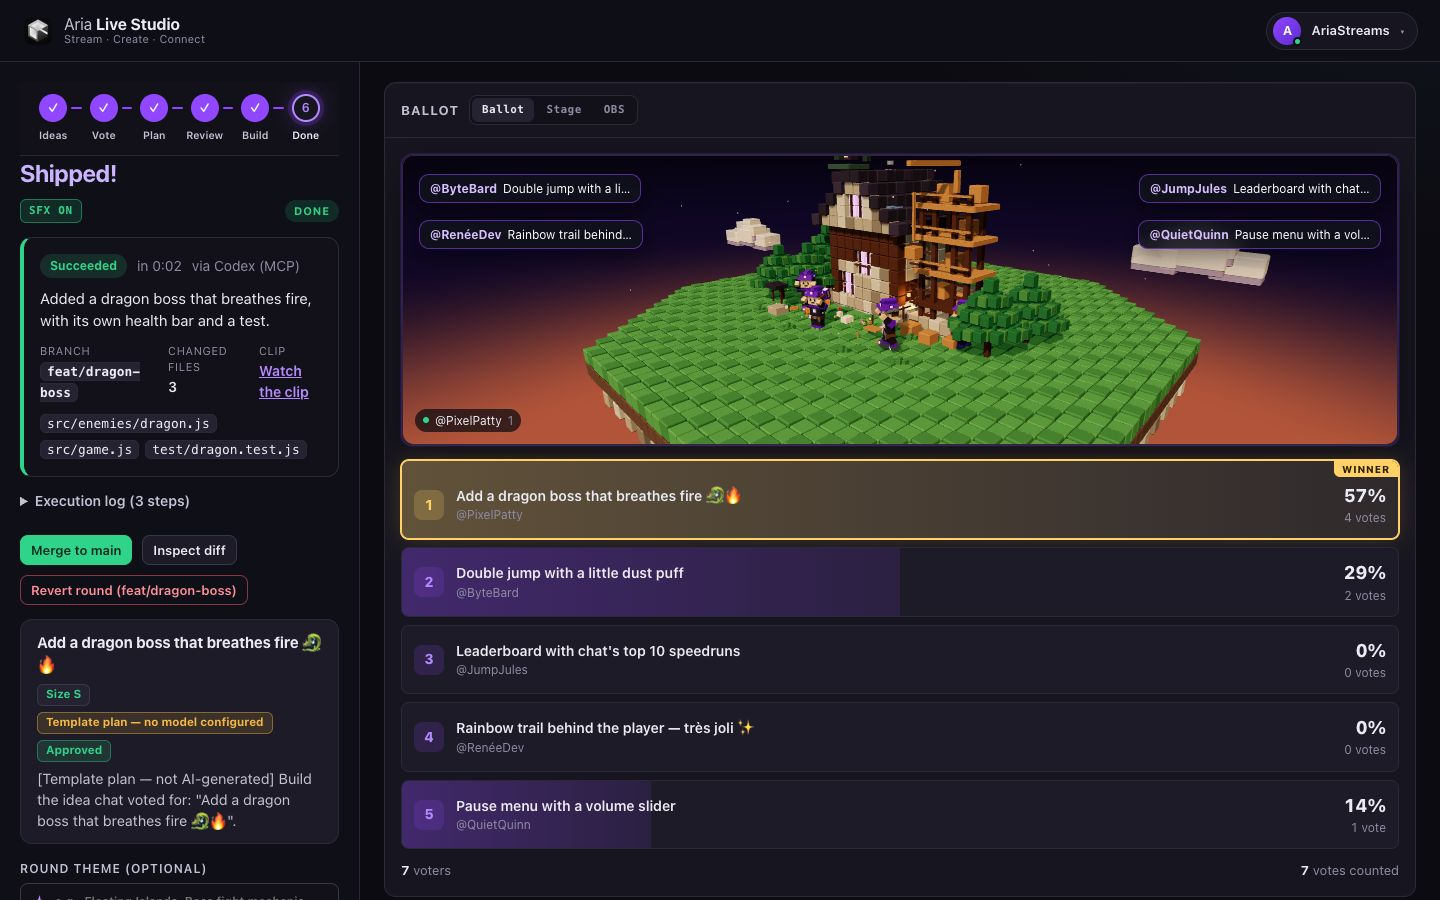
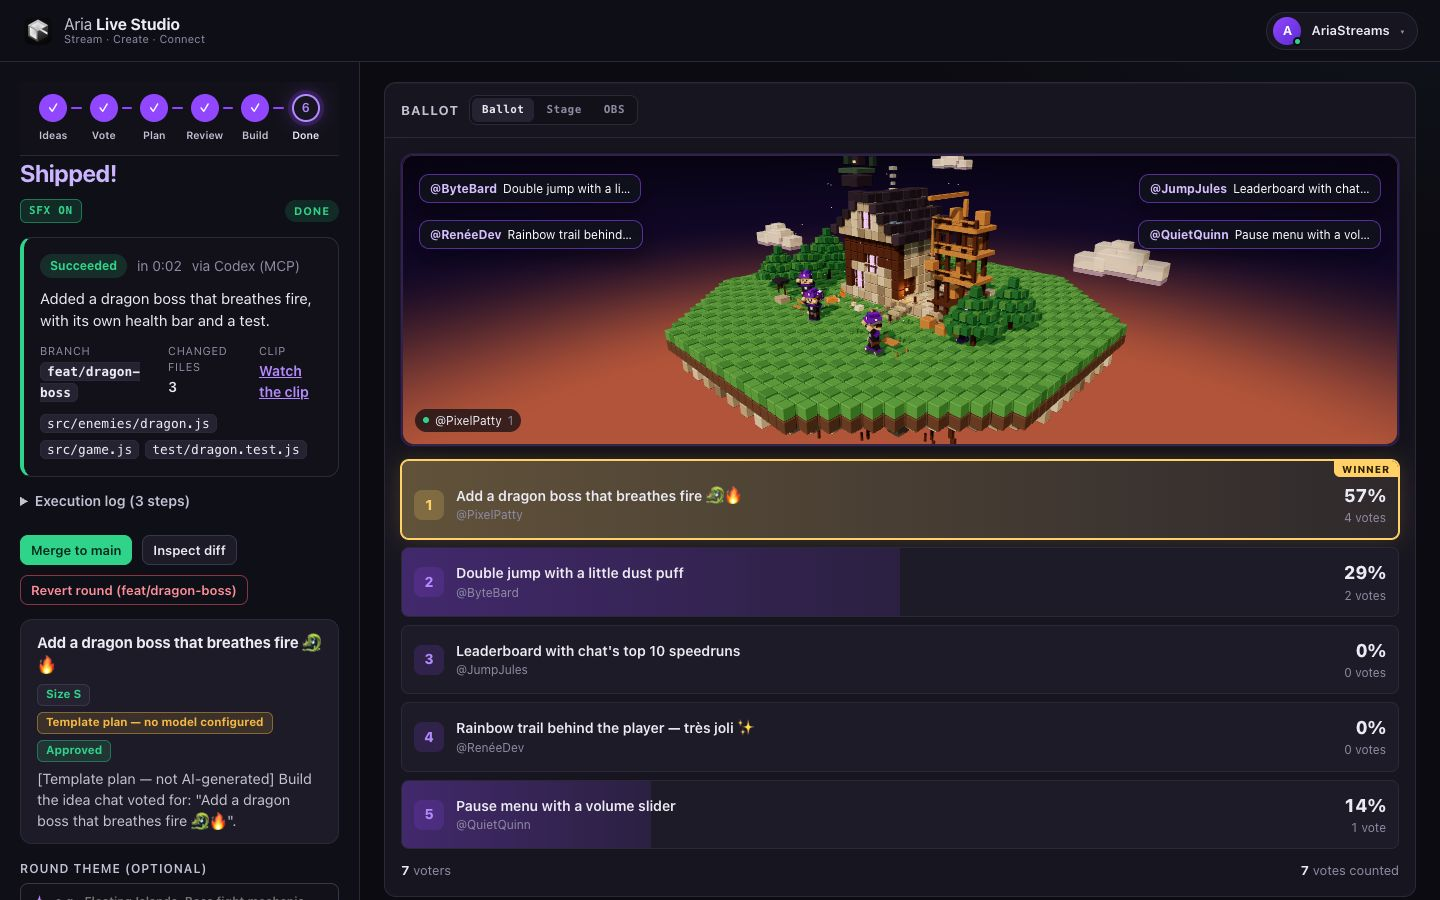
feat(web): declutter 3D island layout, widen staircase with stone cheek-walls, and shift scaffolding right

Changed region(s): [[0.4062, 0.1556, 0.9062, 0.4978]]

diff --git a/packages/web/src/dashboard/LiveStageCanvas.tsx b/packages/web/src/dashboard/LiveStageCanvas.tsx
@@ -368,20 +368,24 @@ export function LiveStageCanvas({
       mossSpecs.push({ x: vx, y: -0.95, z: vz, sx: 0.55, sy: 1.1, sz: 0.55 });
     }
 
-    // Refined stone porch landing + 5-step L-shaped stair + twin timber handrails
+    // Wide, solid stone porch landing + 5-step straight staircase with stepped stone cheek-walls & posts
+    pushStone(1.55, 0.68, 0.25, 1.85, 0.42, 1.45);
+    pushStone(1.55, 0.34, 0.25, 1.85, 0.42, 1.45);
     for (let s = 0; s < 5; s++) {
-      pushStone(1.42, 0.06 + s * 0.14, 2.38 - s * 0.26, 1.24, 0.42, 0.68);
+      const sy = 0.56 - s * 0.12;
+      const sz = 0.92 + s * 0.44;
+      pushStone(1.55, sy, sz, 1.55, 0.36, 0.54);
+      // Stepped stone cheek-walls flanking each tread
+      stoneDarkSpecs.push(
+        { x: 1.02, y: sy + 0.14, z: sz, sx: 0.36, sy: 0.42, sz: 0.56 },
+        { x: 2.08, y: sy + 0.14, z: sz, sx: 0.36, sy: 0.42, sz: 0.56 },
+      );
     }
-    pushStone(1.42, 0.76, 0.92, 1.48, 0.42, 1.25);
-    pushStone(1.12, 0.76, 0.28, 1.15, 0.42, 1.25);
     timberSpecs.push(
-      { x: 1.88, y: 0.48, z: 2.38, sx: 0.12, sy: 0.85, sz: 0.12 },
-      { x: 1.88, y: 0.88, z: 1.62, sx: 0.12, sy: 1.05, sz: 0.12 },
-      { x: 1.88, y: 1.18, z: 0.88, sx: 0.12, sy: 1.0, sz: 0.12 },
-      { x: 1.88, y: 1.05, z: 1.62, sx: 0.1, sy: 0.1, sz: 1.75 },
-      { x: 1.04, y: 0.62, z: 2.38, sx: 0.1, sy: 0.75, sz: 0.1 },
-      { x: 1.04, y: 1.08, z: 0.88, sx: 0.1, sy: 0.9, sz: 0.1 },
-      { x: 1.04, y: 1.08, z: 1.62, sx: 0.09, sy: 0.09, sz: 1.75 },
+      { x: 1.02, y: 0.95, z: 0.92, sx: 0.22, sy: 0.65, sz: 0.22 },
+      { x: 2.08, y: 0.95, z: 0.92, sx: 0.22, sy: 0.65, sz: 0.22 },
+      { x: 1.02, y: 0.48, z: 2.68, sx: 0.22, sy: 0.65, sz: 0.22 },
+      { x: 2.08, y: 0.48, z: 2.68, sx: 0.22, sy: 0.65, sz: 0.22 },
     );
 
     // 3. Main Two-Story Gabled Manor Hall (fine 0.5u stone masonry, dark wood door, arched purple windows)
@@ -479,63 +483,63 @@ export function LiveStageCanvas({
         timberSpecs.push({ x, y: 0.35 + r * 0.46, z, sx: 1.55, sy: 0.18, sz: 0.2 });
       }
     };
-    ladder(2.55, 1.05);
-    ladder(3.95, 1.05);
+    ladder(3.8, 1.05);
+    ladder(5.2, 1.05);
     timberSpecs.push(
-      { x: 2.55, y: 2.55, z: -0.15, sx: 0.42, sy: 11.2, sz: 0.42 },
-      { x: 3.95, y: 2.55, z: -0.15, sx: 0.42, sy: 11.2, sz: 0.42 },
-      { x: 3.25, y: 1.25, z: 0.45, sx: 5.4, sy: 0.38, sz: 3.6 },
+      { x: 3.8, y: 2.55, z: -0.15, sx: 0.42, sy: 11.2, sz: 0.42 },
+      { x: 5.2, y: 2.55, z: -0.15, sx: 0.42, sy: 11.2, sz: 0.42 },
+      { x: 4.5, y: 1.25, z: 0.45, sx: 4.8, sy: 0.38, sz: 3.6 },
     );
     // Multi-tier right scaffolding platforms, cross-rails, barrels, crane arm & pulley block
     scaffSpecs.push(
-      { x: 3.25, y: 2.45, z: 0.45, sx: 5.4, sy: 0.38, sz: 3.6 },
-      { x: 3.25, y: 3.65, z: 0.45, sx: 5.4, sy: 0.38, sz: 3.6 },
-      { x: 3.25, y: 4.75, z: 0.45, sx: 5.4, sy: 0.42, sz: 3.6 },
-      // Safety guardrails & ladder rungs on front face
-      { x: 3.25, y: 5.15, z: 1.35, sx: 5.2, sy: 0.16, sz: 0.16 },
-      { x: 3.25, y: 4.05, z: 1.35, sx: 5.2, sy: 0.16, sz: 0.16 },
-      { x: 3.25, y: 2.85, z: 1.35, sx: 5.2, sy: 0.16, sz: 0.16 },
+      { x: 4.5, y: 2.45, z: 0.45, sx: 4.8, sy: 0.38, sz: 3.6 },
+      { x: 4.5, y: 3.65, z: 0.45, sx: 4.8, sy: 0.38, sz: 3.6 },
+      { x: 4.5, y: 4.75, z: 0.45, sx: 4.8, sy: 0.42, sz: 3.6 },
+      // Safety guardrails on front face
+      { x: 4.5, y: 5.15, z: 1.35, sx: 4.6, sy: 0.16, sz: 0.16 },
+      { x: 4.5, y: 4.05, z: 1.35, sx: 4.6, sy: 0.16, sz: 0.16 },
+      { x: 4.5, y: 2.85, z: 1.35, sx: 4.6, sy: 0.16, sz: 0.16 },
       // Barrels & supply crates on scaffolding platforms
-      { x: 2.7, y: 1.62, z: 0.35, sx: 1.15, sy: 1.15, sz: 1.15 },
-      { x: 3.75, y: 1.58, z: 0.7, sx: 1.05, sy: 1.05, sz: 1.05 },
-      { x: 3.15, y: 2.82, z: 0.25, sx: 1.15, sy: 1.15, sz: 1.15 },
-      { x: 3.7, y: 4.05, z: 0.3, sx: 1.1, sy: 1.1, sz: 1.1 },
-      { x: 2.65, y: 5.15, z: 0.2, sx: 1.15, sy: 1.35, sz: 1.15 },
-      { x: 3.9, y: 5.15, z: 0.1, sx: 1.05, sy: 1.25, sz: 1.05 },
+      { x: 3.95, y: 1.62, z: 0.35, sx: 1.15, sy: 1.15, sz: 1.15 },
+      { x: 5.0, y: 1.58, z: 0.7, sx: 1.05, sy: 1.05, sz: 1.05 },
+      { x: 4.4, y: 2.82, z: 0.25, sx: 1.15, sy: 1.15, sz: 1.15 },
+      { x: 4.95, y: 4.05, z: 0.3, sx: 1.1, sy: 1.1, sz: 1.1 },
+      { x: 3.9, y: 5.15, z: 0.2, sx: 1.15, sy: 1.35, sz: 1.15 },
+      { x: 5.15, y: 5.15, z: 0.1, sx: 1.05, sy: 1.25, sz: 1.05 },
       // Crane boom + suspended pulley hook
-      { x: 3.25, y: 5.55, z: 0.45, sx: 0.38, sy: 1.6, sz: 0.38 },
-      { x: 3.25, y: 6.15, z: 1.65, sx: 0.38, sy: 0.38, sz: 5.4 },
-      { x: 3.25, y: 4.55, z: 2.65, sx: 0.18, sy: 3.2, sz: 0.18 },
-      { x: 3.25, y: 3.45, z: 2.65, sx: 0.92, sy: 0.82, sz: 0.92 },
+      { x: 4.5, y: 5.55, z: 0.45, sx: 0.38, sy: 1.6, sz: 0.38 },
+      { x: 4.5, y: 6.15, z: 1.65, sx: 0.38, sy: 0.38, sz: 5.4 },
+      { x: 4.5, y: 4.55, z: 2.65, sx: 0.18, sy: 3.2, sz: 0.18 },
+      { x: 4.5, y: 3.45, z: 2.65, sx: 0.92, sy: 0.82, sz: 0.92 },
       // Ground-level barrels & crates beside the scaffolding
-      { x: 2.45, y: 0.38, z: 1.85, sx: 1.2, sy: 1.25, sz: 1.2 },
-      { x: 3.35, y: 0.34, z: 1.95, sx: 1.1, sy: 1.15, sz: 1.1 },
-      { x: 4.15, y: 0.3, z: 1.7, sx: 1.05, sy: 1.0, sz: 1.05 },
+      { x: 3.7, y: 0.38, z: 1.85, sx: 1.2, sy: 1.25, sz: 1.2 },
+      { x: 4.6, y: 0.34, z: 1.95, sx: 1.1, sy: 1.15, sz: 1.1 },
+      { x: 5.4, y: 0.3, z: 1.7, sx: 1.05, sy: 1.0, sz: 1.05 },
     );
     for (let r = 0; r < 6; r++) {
-      timberSpecs.push({ x: 2.15, y: 0.55 + r * 0.72, z: 1.35, sx: 0.85, sy: 0.14, sz: 0.14 });
+      timberSpecs.push({ x: 3.4, y: 0.55 + r * 0.72, z: 1.35, sx: 0.85, sy: 0.14, sz: 0.14 });
     }
 
-    // 7. Fine-Detail Clustered Sub-Voxel Pine Trees, Shrubs, Cobblestones & Flowers
+    // 7. Spacious Pine Groves, Workbench, Wishing Well, Plaza Cobblestones & Shrubs
     const trunkSpecs: VoxelSpec[] = [
-      { x: -4.3, y: 0.8, z: 0.15, sx: 0.42, sy: 2.1, sz: 0.42 },
-      { x: -3.7, y: 0.7, z: 1.7, sx: 0.38, sy: 1.8, sz: 0.38 },
-      { x: -4.7, y: 0.65, z: 2.5, sx: 0.36, sy: 1.6, sz: 0.36 },
-      { x: 5.55, y: 0.7, z: 1.7, sx: 0.38, sy: 1.8, sz: 0.38 },
-      { x: 5.9, y: 0.62, z: -0.2, sx: 0.34, sy: 1.5, sz: 0.34 },
+      { x: -5.6, y: 0.8, z: 0.2, sx: 0.42, sy: 2.1, sz: 0.42 },
+      { x: -5.0, y: 0.7, z: 2.2, sx: 0.38, sy: 1.8, sz: 0.38 },
+      { x: -6.2, y: 0.65, z: 3.2, sx: 0.36, sy: 1.6, sz: 0.36 },
+      { x: 6.4, y: 0.7, z: 2.2, sx: 0.38, sy: 1.8, sz: 0.38 },
+      { x: 6.6, y: 0.62, z: -0.4, sx: 0.34, sy: 1.5, sz: 0.34 },
     ];
-    // Table in front of the crane, bench to the left of the path.
+    // Outdoor workbench in right-front yard, wooden bench in left-front garden
     scaffSpecs.push(
-      { x: 1.75, y: 0.62, z: 3.05, sx: 1.35, sy: 0.12, sz: 0.85 },
-      { x: 1.25, y: 0.32, z: 2.78, sx: 0.12, sy: 0.48, sz: 0.12 },
-      { x: 2.25, y: 0.32, z: 2.78, sx: 0.12, sy: 0.48, sz: 0.12 },
-      { x: 1.25, y: 0.32, z: 3.32, sx: 0.12, sy: 0.48, sz: 0.12 },
-      { x: 2.25, y: 0.32, z: 3.32, sx: 0.12, sy: 0.48, sz: 0.12 },
-      { x: 1.5, y: 0.76, z: 2.95, sx: 0.28, sy: 0.14, sz: 0.22 },
-      { x: -1.85, y: 0.4, z: 2.95, sx: 1.2, sy: 0.12, sz: 0.42 },
-      { x: -2.3, y: 0.22, z: 2.95, sx: 0.12, sy: 0.28, sz: 0.34 },
-      { x: -1.4, y: 0.22, z: 2.95, sx: 0.12, sy: 0.28, sz: 0.34 },
-      { x: -1.85, y: 0.62, z: 2.78, sx: 1.2, sy: 0.32, sz: 0.1 },
+      { x: 4.2, y: 0.62, z: 4.8, sx: 1.55, sy: 0.14, sz: 0.92 },
+      { x: 3.6, y: 0.32, z: 4.5, sx: 0.14, sy: 0.48, sz: 0.14 },
+      { x: 4.8, y: 0.32, z: 4.5, sx: 0.14, sy: 0.48, sz: 0.14 },
+      { x: 3.6, y: 0.32, z: 5.1, sx: 0.14, sy: 0.48, sz: 0.14 },
+      { x: 4.8, y: 0.32, z: 5.1, sx: 0.14, sy: 0.48, sz: 0.14 },
+      { x: 3.9, y: 0.76, z: 4.75, sx: 0.3, sy: 0.16, sz: 0.24 },
+      { x: -2.5, y: 0.4, z: 4.6, sx: 1.35, sy: 0.14, sz: 0.48 },
+      { x: -3.0, y: 0.22, z: 4.6, sx: 0.14, sy: 0.28, sz: 0.38 },
+      { x: -2.0, y: 0.22, z: 4.6, sx: 0.14, sy: 0.28, sz: 0.38 },
+      { x: -2.5, y: 0.62, z: 4.4, sx: 1.35, sy: 0.32, sz: 0.12 },
     );
     const addFineTree = (cx: number, baseY: number, cz: number, tiers: number) => {
       for (let t = 0; t < tiers; t++) {
@@ -558,11 +562,11 @@ export function LiveStageCanvas({
       }
       pineSpecs.push({ x: cx, y: baseY + tiers * 0.44, z: cz, sx: 0.75, sy: 0.85, sz: 0.75 });
     };
-    addFineTree(-4.3, 1.45, 0.15, 4);
-    addFineTree(-3.7, 1.3, 1.7, 3);
-    addFineTree(-4.7, 1.2, 2.5, 3);
-    addFineTree(5.55, 1.3, 1.7, 3);
-    addFineTree(5.9, 1.15, -0.2, 3);
+    addFineTree(-5.6, 1.45, 0.2, 4);
+    addFineTree(-5.0, 1.3, 2.2, 3);
+    addFineTree(-6.2, 1.2, 3.2, 3);
+    addFineTree(6.4, 1.3, 2.2, 3);
+    addFineTree(6.6, 1.15, -0.4, 3);
 
     // Rounded bushes, each made of a few small leaves rather than one cube.
     const addBush = (cx: number, cz: number, s = 1) => {
@@ -587,27 +591,27 @@ export function LiveStageCanvas({
       addBush(sx, sz, 0.85);
     }
     for (const [cx, cz] of [
-      [-0.75, 1.7],
-      [-0.75, 2.15],
-      [-0.75, 2.6],
-      [-0.75, 3.05],
-      [-0.65, 3.65],
-      [-0.15, 4.05],
-      [0.55, 3.85],
-      [1.25, 3.35],
-      [1.38, 2.8],
-      [-1.45, 3.85],
-      [-2.15, 3.7],
+      [1.55, 3.2],
+      [1.35, 3.8],
+      [0.65, 4.35],
+      [-0.15, 4.65],
+      [-0.95, 4.45],
+      [-1.75, 4.2],
+      [-2.6, 4.1],
+      [-3.4, 4.25],
+      [0.45, 5.4],
+      [1.35, 5.2],
+      [2.25, 4.95],
     ] as const) {
-      stoneLightSpecs.push({ x: cx, y: 0.16, z: cz, sx: 0.62, sy: 0.14, sz: 0.48 });
+      stoneLightSpecs.push({ x: cx, y: 0.16, z: cz, sx: 0.72, sy: 0.14, sz: 0.54 });
     }
-    // Left-foreground stone wishing well + wooden canopy
-    stoneMidSpecs.push({ x: -3.25, y: 0.36, z: 3.65, sx: 1.35, sy: 0.72, sz: 1.35 });
+    // Left-foreground stone wishing well + wooden canopy (spaciously placed)
+    stoneMidSpecs.push({ x: -4.2, y: 0.36, z: 4.4, sx: 1.35, sy: 0.72, sz: 1.35 });
     timberSpecs.push(
-      { x: -3.55, y: 0.92, z: 3.65, sx: 0.14, sy: 1.05, sz: 0.14 },
-      { x: -2.95, y: 0.92, z: 3.65, sx: 0.14, sy: 1.05, sz: 0.14 },
+      { x: -4.5, y: 0.92, z: 4.4, sx: 0.14, sy: 1.05, sz: 0.14 },
+      { x: -3.9, y: 0.92, z: 4.4, sx: 0.14, sy: 1.05, sz: 0.14 },
     );
-    roofDarkSpecs.push({ x: -3.25, y: 1.38, z: 3.65, sx: 1.6, sy: 0.36, sz: 1.3 });
+    roofDarkSpecs.push({ x: -4.2, y: 1.38, z: 4.4, sx: 1.6, sy: 0.36, sz: 1.3 });
     scaffSpecs.push(
       { x: -2.35, y: 0.2, z: 2.25, sx: 1.35, sy: 0.16, sz: 0.6 },
       { x: 0.55, y: 0.2, z: 2.4, sx: 1.2, sy: 0.16, sz: 0.55 },
@@ -753,10 +757,10 @@ export function LiveStageCanvas({
         rightArm,
       });
     };
-    addVillager(-0.45, 0.08, 3.65, 0xc47a4a, 0x6b3e22, 0.25, 0.2);
-    addVillager(2.85, 0.08, 3.35, 0x4e9a52, 0x8d8276, -0.55, 1.4);
-    addVillager(-2.45, 0.08, 2.75, 0xd9d0c4, 0x5a4032, 0.65, 2.6);
-    addVillager(4.45, 0.08, 1.55, 0xc4894a, 0xf5b942, -1.25, 3.8);
+    addVillager(-0.6, 0.08, 4.9, 0xc47a4a, 0x6b3e22, 0.25, 0.2);
+    addVillager(4.0, 0.08, 5.5, 0x4e9a52, 0x8d8276, -0.45, 1.4);
+    addVillager(-3.3, 0.08, 3.5, 0xd9d0c4, 0x5a4032, 0.65, 2.6);
+    addVillager(5.8, 0.08, 2.2, 0xc4894a, 0xf5b942, -1.15, 3.8);
 
     // Upgrade villagers with the 1:1 Aria Voxel Engineer GLB model (with articulated joints & tools)
     const toolRoles: Array<"hammer" | "wrench" | "tablet" | "hammer"> = ["hammer", "wrench", "tablet", "hammer"];
